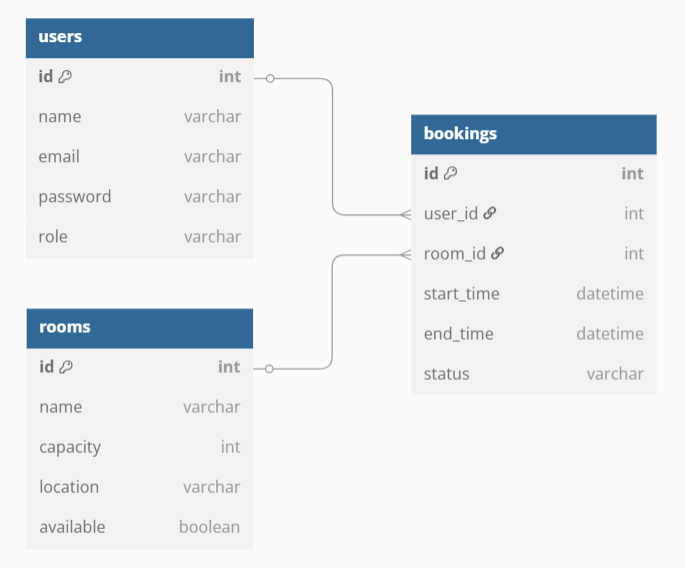
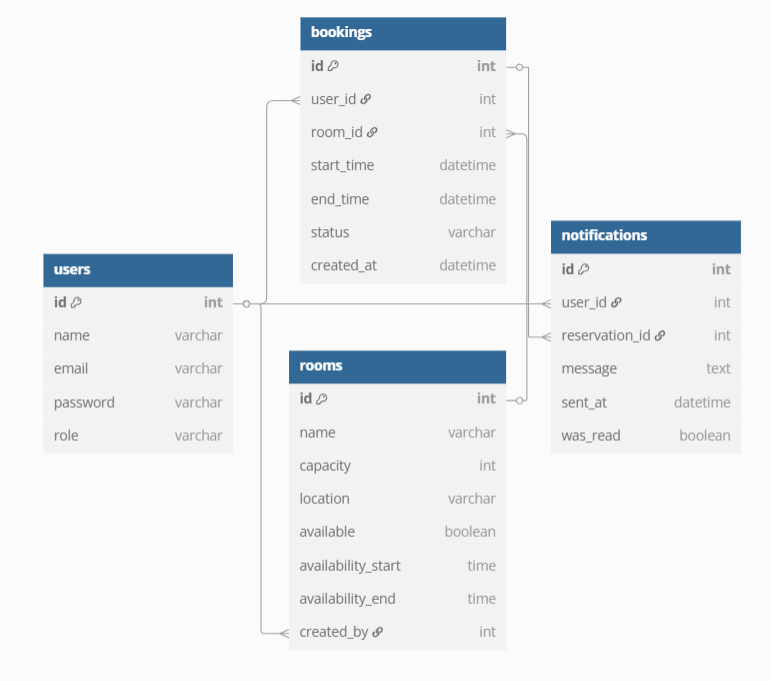
update

diff --git a/documentos/wad.md b/documentos/wad.md
@@ -71,7 +71,7 @@ Critérios INVEST | A US03 é independente porque trata de uma funcionalidade es
 
 ### 3.1. Modelagem do banco de dados
 
-Para o sistema de reserva de salas, foram identificadas três entidades principais: **users**, **rooms** e **bookings**. A modelagem busca garantir integridade dos dados, simplicidade nas consultas e flexibilidade para futuras melhorias.
+Para o sistema de reserva de salas, foram identificadas quatro entidades principais: **users**, **rooms**, **notificações** e **bookings**. A modelagem busca garantir integridade dos dados, simplicidade nas consultas e flexibilidade para futuras melhorias.
 
 <div align="center">
   <sub>FIGURA X - Modelo Banco de Dados </sub><br>
@@ -82,8 +82,20 @@ Para o sistema de reserva de salas, foram identificadas três entidades principa
 
 #### Relacionamentos
 
-- Um **usuário** pode realizar **várias reservas** → relação 1:N entre `users` e `bookings`.
-- Uma **sala** pode estar associada a **várias reservas** → relação 1:N entre `rooms` e `bookings`.
+- Um **usuário** pode realizar **várias reservas**  
+  → Relação **1:N** entre `users` e `bookings`  
+
+- Uma **sala** pode estar associada a **várias reservas**  
+  → Relação **1:N** entre `rooms` e `bookings`  
+
+- Um **usuário (admin)** pode cadastrar **várias salas**  
+  → Relação **1:N** entre `users` e `rooms`  
+
+- Uma **reserva** pode gerar **várias notificações**  
+  → Relação **1:N** entre `bookings` e `notifications`  
+
+- Um **usuário** pode receber **várias notificações**  
+  → Relação **1:N** entre `users` e `notifications`  
 
 
 ### 3.1.1 BD e Models (Semana 5)
